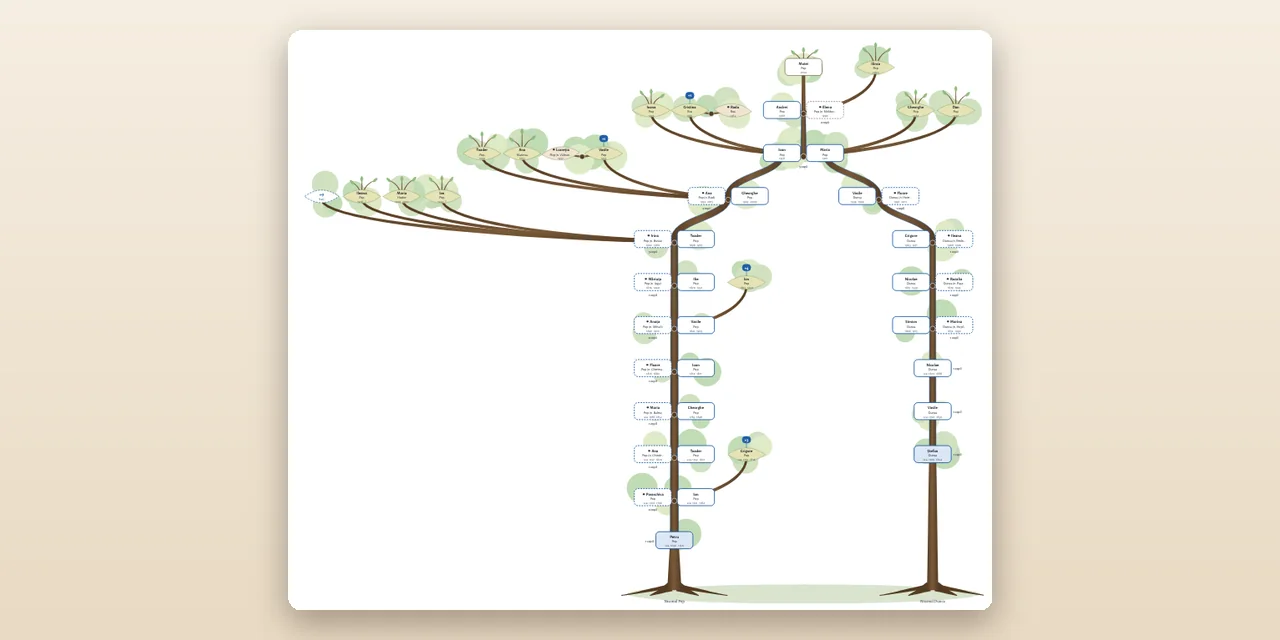
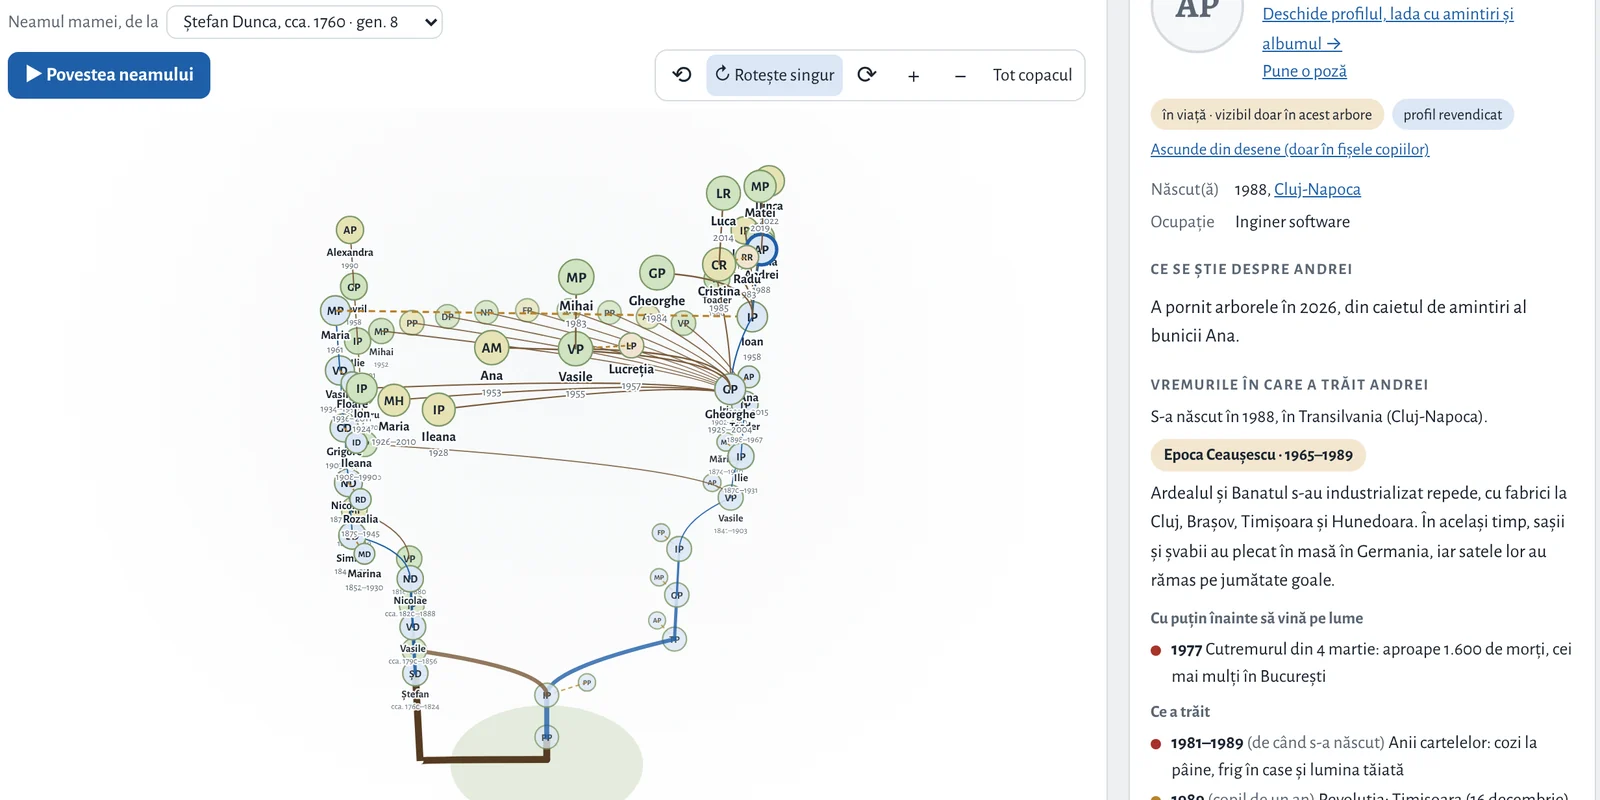
Magazin: poza planurilor e Copacul 360° (ambele spițe), pe tot cadrul, 2:1
Claude-Session: https://claude.ai/code/session_01993fPhMPdGCFhQbYJx7d75

diff --git a/src/app/globals.css b/src/app/globals.css
@@ -2621,10 +2621,10 @@ dialog.zoom::backdrop{background:#0d0906e6}
 .prod-plans>h2{margin:4px 0 0;font-size:24px}
 .prod-plans>.pill{align-self:flex-start}
 .prod-plans>p{margin:0 0 14px}
-.prod-plans-img{display:block;width:100%;height:220px;object-fit:cover;border-radius:12px;margin-bottom:6px}
+.prod-plans-img{display:block;width:100%;height:auto;aspect-ratio:2/1;object-fit:cover;border-radius:12px;margin-bottom:6px;border:1px solid var(--line)}
 .prod-plans .lp-period{margin-bottom:28px}
 .prod-plans .lp-plan{color:var(--ink)}
-@media (max-width:640px){.prod-plans-img{height:160px}.prod-plans .lp-plan{padding:24px 16px 20px}}
+@media (max-width:640px){.prod-plans .lp-plan{padding:24px 16px 20px}}
 /* Invitații: emailul cumpărătorului și invitația cumpărată pentru altcineva (câmpurile apar doar după bifă) */
 .shop-email{display:flex;flex-direction:column;gap:4px}
 .shop-email input,.shop-gift input,.shop-gift textarea{width:100%;font:inherit;font-size:16px;padding:10px 12px;border:1px solid var(--line);border-radius:10px;background:var(--surface);color:var(--ink)}

diff --git a/src/components/Produse.tsx b/src/components/Produse.tsx
@@ -81,7 +81,7 @@ export default async function Produse({ locale, models, s }: { locale: Locale; m
       {cards && (
         <section className="card prod-plans" aria-labelledby="prod-plans" id="planuri">
           {/* eslint-disable-next-line @next/next/no-img-element */}
-          <img className="prod-plans-img" src="/produse/arbore.webp" width={1280} height={640} alt="" loading="lazy" decoding="async" />
+          <img className="prod-plans-img" src="/produse/arbore.webp" width={1600} height={800} alt="" loading="lazy" decoding="async" />
           <span className="pill">{t.withAccount}</span>
           <h2 id="prod-plans">{t.plansTitle}</h2>
           <p className="muted">{t.plansText}</p>
